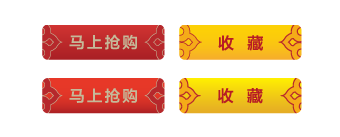
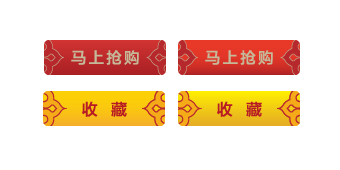
update: button style

diff --git a/content/themes/gugong/css/style.css b/content/themes/gugong/css/style.css
@@ -1262,21 +1262,22 @@ ul.order_details li{
 	cursor: pointer;
 }
 .item_title_right #submit_to_cart{
-	background: url(../images/add-to-cart-btn.png) no-repeat -42px -25px;
+	background: url(../images/add-to-cart-btn.png) no-repeat -43px -39px;
 	width: 124px;
 	height: 36px;
 }
 .item_title_right #submit_to_cart:hover{
-	background: url(../images/add-to-cart-btn.png) no-repeat -42px -78px;
+	background: url(../images/add-to-cart-btn.png) no-repeat -177px -39px;
+	cursor: pointer;
 }
 .item_title_right #add_favorite{
 	display: inline-block;
-	background: url(../images/add-to-cart-btn.png) no-repeat -179px -25px;
+	background: url(../images/add-to-cart-btn.png) no-repeat -42px -91px;
 	width: 124px;
 	height: 36px;
 }
 .item_title_right #add_favorite:hover{
-	background: url(../images/add-to-cart-btn.png) no-repeat -179px -78px;
+	background: url(../images/add-to-cart-btn.png) no-repeat -177px -91px;
 }
 .ggshop-message {
 	padding: 8px 8px 8px 14px;

diff --git a/content/themes/gugong/content-single-product.php b/content/themes/gugong/content-single-product.php
@@ -178,7 +178,7 @@ $(document).ready(function() {
 		$(window).scroll(function(){
 			if ($(window).scrollTop()>100){
 				$("#back-to-top").fadeIn(500);
-				$("#back-to-top").css('right', ($(window).width()-1280)/2+80);
+				$("#back-to-top").css('right', ($(window).width()-1280)/2-15);
 			} else {
 				$("#back-to-top").fadeOut(500);
 			}
